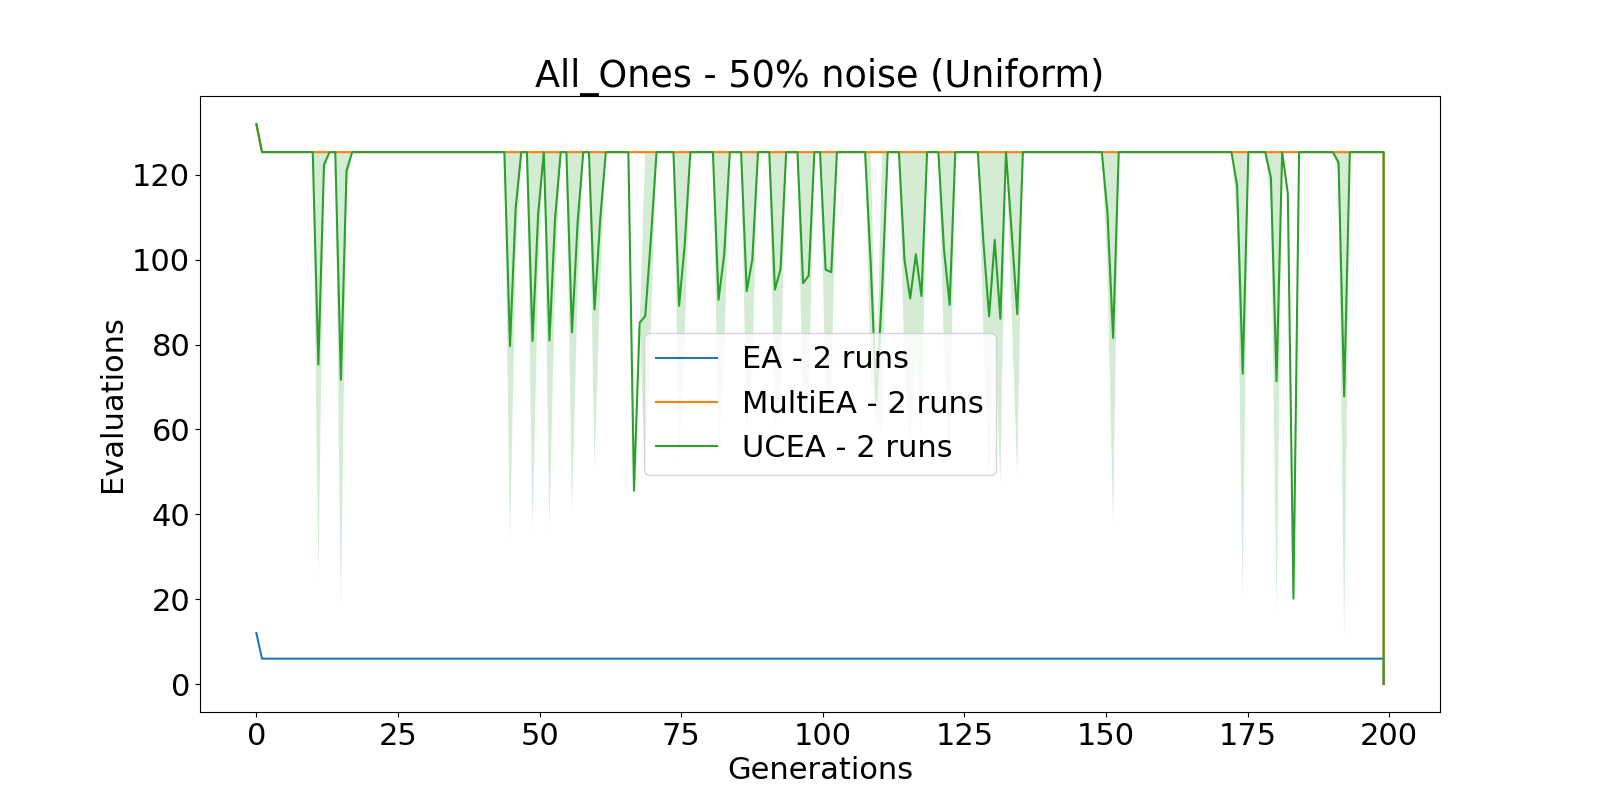
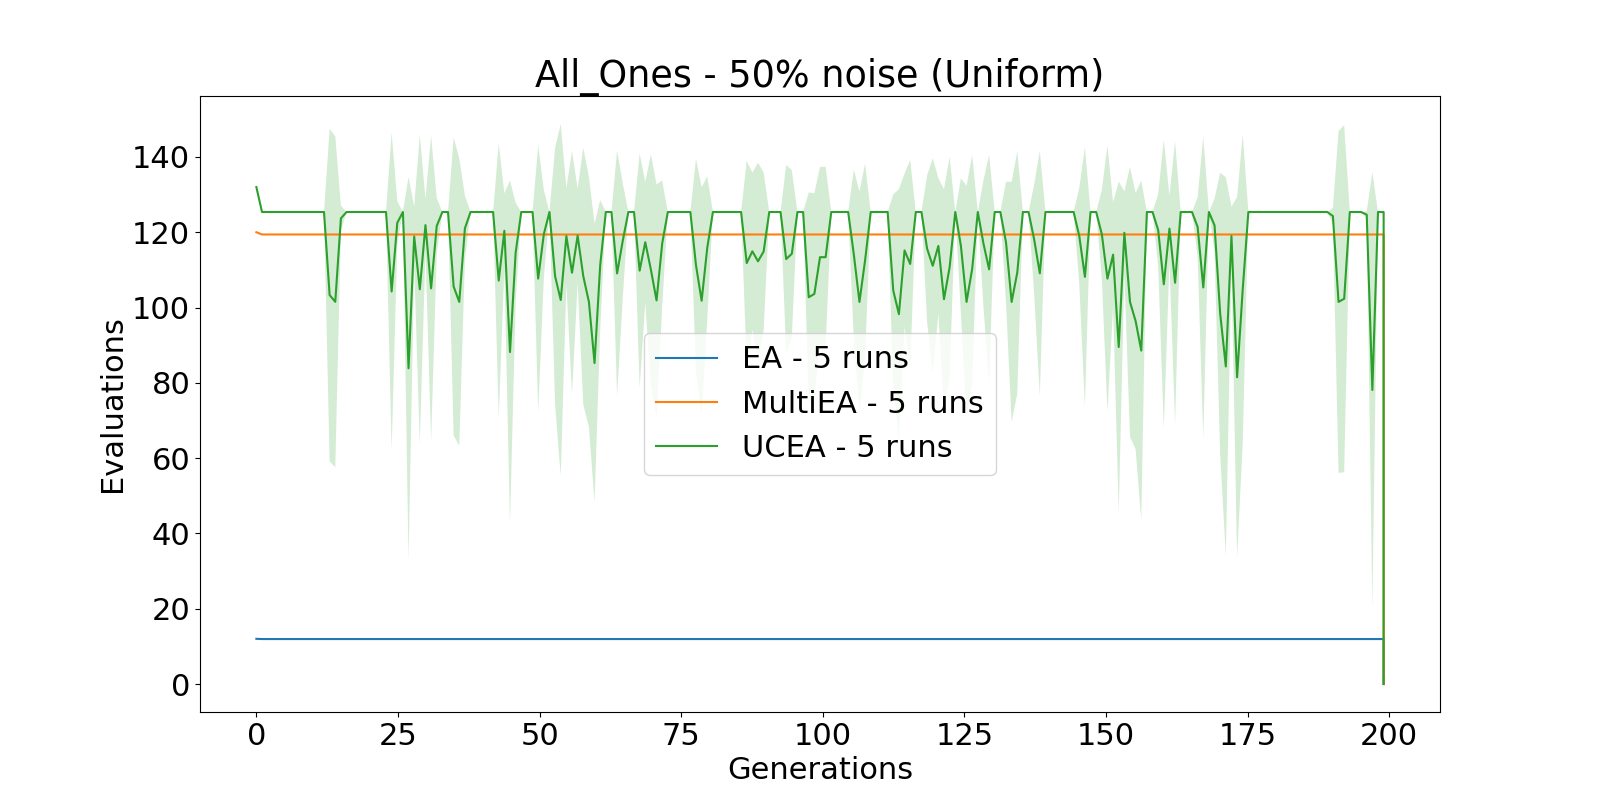
bug fix

diff --git a/src/algos/ea.py b/src/algos/ea.py
@@ -11,6 +11,7 @@ class EA:
         self.server = Server(pb)
         self.pop = Population(args).random()
         self.total_evals = 0
+        self.gen=0
         
     def __len__(self):
         return len(self.pop)
@@ -40,54 +41,58 @@ class EA:
             parent = self.get_parent()
             children.append(parent.mutate())
         self.pop.add(children)
-        self.sorted=False
+        self.pop.sorted=False
         return self
     
     def evaluate_children(self):
         children = [i for i in self.pop if len(i.fitnesses) == 0]
         self.server.batch_evaluate(children)
         self.total_evals += len(children)
-        for i in children:
-            i.lifetime += 1
-        self.sorted=False
+        for i in self.pop.agents:
+            i.lifetime += len(children)
+        self.pop.sorted=False
         self.pop.update()
         self.pop.sort()
         return len(children)
     
     def step(self):
-        self.update()
-        # self.evaluate_children()
+        if self.gen > 0:
+            self.update()
+        # n_children = self.evaluate_children()
         for i in self.pop:
             i.reset_fitness()
         self.server.batch_evaluate(self.pop.agents)
         self.total_evals += len(self.pop.agents)
-        self.sorted=False
+        self.pop.sorted=False
         self.pop.sort()
+        self.gen += 1
         return self
     
     def run(self, gens, name=""):
-        pbar = tqdm(range(gens))
+        max_evals = 20000
+        pbar = tqdm(range(max_evals))
         pbar.set_description(name)
         X, Y = [], []
-        for gen in pbar:
+        while self.total_evals < max_evals:
             self.step()
-            f = np.mean([i.true_fitnesses[-1] for i in self])
+            f = np.max([np.mean(i.true_fitnesses) for i in self])
+            pbar.n = self.total_evals
+            pbar.refresh()
             X.append(self.total_evals)
             Y.append(f)
+        pbar.n = self.gen
+        pbar.refresh()
         return X, Y
 
 class MultiEA(EA):
     def step(self):
-        self.update()
-        n_children = self.evaluate_children()
-        # Distribute max evals between agents
-        N = math.floor((self.args["max_eval"] - n_children)/ self.args["n_pop"])
-
-        for i in self.pop:
-            i.reset_fitness()
-        eval_agents = list(self.pop.agents) * N
+        if self.gen > 0:
+            self.update()
+        
+        eval_agents = [i for i in self.pop.agents if i.n_evals == 0] * self.args["n_resampling"]
         self.server.batch_evaluate(eval_agents)
         self.total_evals += len(eval_agents)
-        self.sorted=False
+        self.pop.sorted=False
         self.pop.sort()
+        self.gen += 1
         return self

diff --git a/src/run.py b/src/run.py
@@ -34,6 +34,7 @@ def run_xp(basepb,
         "epsilon":0.1,
         "mut_size":0.3,
         "max_eval":120,
+        "n_resampling":10,
         "max_fit":max_fit,
         "noise_level": noise
     }
@@ -63,7 +64,7 @@ def run_xp(basepb,
     title = f"{basepb.name} - {int(noise*100)}% noise ({noise_type})"
     # Fitness = f(gen)
     path = f"plots/{noise_type}/Gen_{basepb.name}_{int(noise*100)}.png"
-    gen_graph(results, title=title, save=path, max_val=max_fit)
+    # gen_graph(results, title=title, save=path, max_val=max_fit)
 
     # Fitness = f(eval)
     path = f"plots/{noise_type}/Eval_{basepb.name}_{int(noise*100)}.png"
@@ -71,5 +72,5 @@ def run_xp(basepb,
 
     # Eval = f(gen)
     path = f"plots/{noise_type}/Cost_{basepb.name}_{int(noise*100)}.png"
-    cost_graph(results, title=title, save=path)
+    # cost_graph(results, title=title, save=path)
 

diff --git a/src/algos/population.py b/src/algos/population.py
@@ -42,14 +42,13 @@ class Population:
         )
         return ind
     
-    def add_eval(self, ind, fit, noise):
-        ind.fitnesses.append(fit + noise)
-        ind.true_fitnesses.append(fit)
-        self.update()
+    # def add_eval(self, ind, fit, noise):
+    #     ind.fitnesses.append(fit + noise)
+    #     ind.true_fitnesses.append(fit)
+    #     self.update()
     
     def update(self):
         for i in self.agents:
-            i.lifetime += 1
             self.set_bounds(i)
         self.sorted = False
         return self

diff --git a/src/problems/mpi.py b/src/problems/mpi.py
@@ -19,7 +19,7 @@ class Client:
         self.rank = self.comm.Get_rank() # The process ID (integer 0-3 for 4-process run)
         self.size = self.comm.Get_size() # The number of processes
 
-        flush(f"Creating node {self.rank}\n")
+        # flush(f"Creating node {self.rank}\n")
 
     def __repr__(self):
         return f"Secondary {self.rank}"

diff --git a/src/postproc/graphs.py b/src/postproc/graphs.py
@@ -41,6 +41,7 @@ def eval_graph(results, title="", save=None, max_val=None):
     plt.legend()
     plt.xlabel("Evaluations")
     plt.ylabel("Mean true fitness")
+    # plt.xlim(0, 20000)
     plt.title(title)
     if save:
         plt.savefig(save)

diff --git a/results.md b/results.md
@@ -8,11 +8,19 @@
 
 |%Noise|Fitness / Gen |Fitness / Eval| Cost / Gen |
 |---|---|---|---|
-|0%|![](plots/Uniform/Gen_All_Ones_0.png)|![](plots/Uniform/Eval_All_Ones_0.png)|![](plots/Uniform/Cost_All_Ones_0.png)
+<!-- |0%|![](plots/Uniform/Gen_All_Ones_0.png)|![](plots/Uniform/Eval_All_Ones_0.png)|![](plots/Uniform/Cost_All_Ones_0.png)
 |25%|![](plots/Uniform/Gen_All_Ones_25.png)|![](plots/Uniform/Eval_All_Ones_25.png)|![](plots/Uniform/Cost_All_Ones_25.png)
 |50%|![](plots/Uniform/Gen_All_Ones_50.png)|![](plots/Uniform/Eval_All_Ones_50.png)|![](plots/Uniform/Cost_All_Ones_50.png)
 |75%|![](plots/Uniform/Gen_All_Ones_75.png)|![](plots/Uniform/Eval_All_Ones_75.png)|![](plots/Uniform/Cost_All_Ones_75.png)
 |100%|![](plots/Uniform/Gen_All_Ones_100.png)|![](plots/Uniform/Eval_All_Ones_100.png)|![](plots/Uniform/Cost_All_Ones_100.png)
+|200%|![](plots/Uniform/Gen_All_Ones_200.png)|![](plots/Uniform/Eval_All_Ones_200.png)|![](plots/Uniform/Cost_All_Ones_200.png) -->
+
+|0%|![](plots/Uniform/Eval_All_Ones_0.png)
+|25%|![](plots/Uniform/Eval_All_Ones_25.png)
+|50%|![](plots/Uniform/Eval_All_Ones_50.png)
+|75%|![](plots/Uniform/Eval_All_Ones_75.png)
+|100%|![](plots/Uniform/Eval_All_Ones_100.png)
+|200%|![](plots/Uniform/Eval_All_Ones_200.png)
 
 ### Normal noise
 |%Noise|Fitness / Gen |Fitness / Eval| Cost / Gen |
